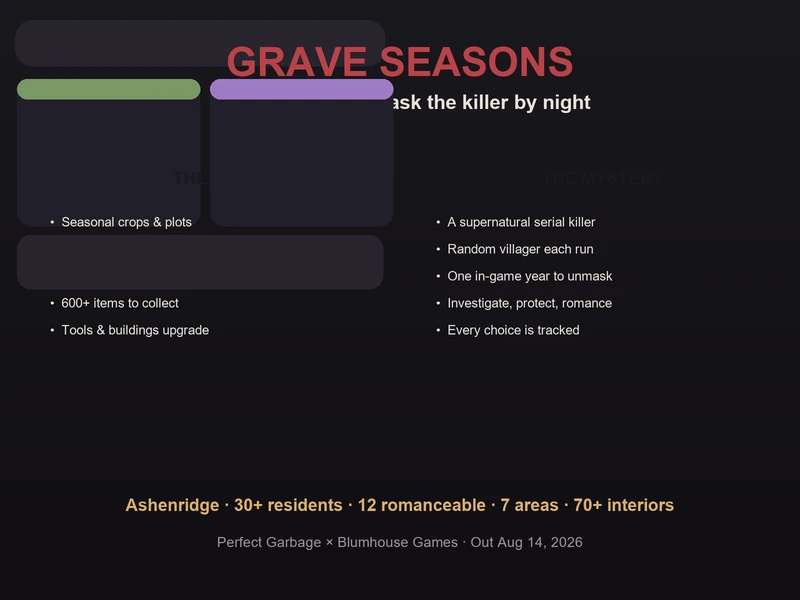
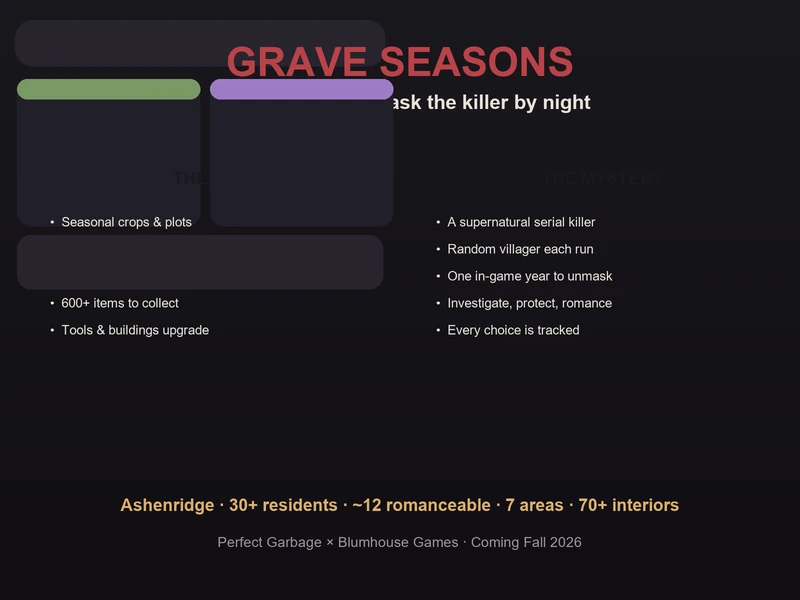
Revise Grave Seasons guide to pre-release preview (delayed to Fall 2026)

Changed region(s): [[0.1562, 0.81, 0.8438, 0.87], [0.2812, 0.9, 0.7188, 0.93]]

diff --git a/scripts/make_grave_seasons_images.py b/scripts/make_grave_seasons_images.py
@@ -143,9 +143,9 @@ def hero():
 
     # footer facts
     rrect(d, (34, 470, W - 34, H - 22), 14, fill=PANEL)
-    facts = "Ashenridge · 30+ residents · 12 romanceable · 7 areas · 70+ interiors"
+    facts = "Ashenridge · 30+ residents · ~12 romanceable · 7 areas · 70+ interiors"
     ctext(d, (W / 2, 505), facts, fit(facts, W - 90, 17, True), fill=GOLD)
-    ctext(d, (W / 2, 542), "Perfect Garbage × Blumhouse Games · Out Aug 14, 2026", fit("Perfect Garbage × Blumhouse Games · Out Aug 14, 2026", W - 90, 14), fill=MUTED)
+    ctext(d, (W / 2, 542), "Perfect Garbage × Blumhouse Games · Coming Fall 2026", fit("Perfect Garbage × Blumhouse Games · Coming Fall 2026", W - 90, 14), fill=MUTED)
     save(img, "grave-seasons-hero.webp")
 
 # ---------------------------------------------------------------- 2. Ashenridge areas
@@ -278,7 +278,7 @@ def killer():
 # ---------------------------------------------------------------- 5. Protect & romance
 def protect_romance():
     img, d = canvas()
-    header(d, "PROTECT THE VICTIMS · ROMANCE 12", "Two goals, one year, all your choices tracked")
+    header(d, "PROTECT THE VICTIMS · ROMANCE A DOZEN", "Two goals, one year, all your choices tracked")
 
     lx = 34
     lw = (W - 68 - 20) / 2
@@ -298,7 +298,7 @@ def protect_romance():
     rx = lx + lw + 20
     rrect(d, (rx, 96, rx + lw, 470), 14, fill=CARD)
     rrect(d, (rx, 96, rx + lw, 140), 14, fill=BLOOD)
-    ctext(d, (rx + lw / 2, 118), "ROMANCE 12 CANDIDATES", fit("ROMANCE 12 CANDIDATES", lw - 16, 16, True), fill=BG)
+    ctext(d, (rx + lw / 2, 118), "ROMANCE A DOZEN CANDIDATES", fit("ROMANCE A DOZEN CANDIDATES", lw - 16, 16, True), fill=BG)
     panel_lines(d, rx + 16, 160, [
         "Build trust through quests",
         "Learn their hidden sides",

diff --git a/hooks/main.py b/hooks/main.py
@@ -1093,7 +1093,7 @@ RELATED_GUIDES = {
 
     # ─── Grave Seasons ───
     "grave-seasons/": [
-        ("grave-seasons/beginners-guide/", "Beginner's Guide"),
+        ("grave-seasons/beginners-guide/", "Preview Guide"),
         ("village-in-the-shade/", "Village in the Shade Guides"),
         ("guides/best-farming-games-2026/", "Best Farming Games 2026"),
         ("tools/release-calendar/", "Upcoming Release Calendar"),

diff --git a/docs/grave-seasons/beginners-guide.md b/docs/grave-seasons/beginners-guide.md
@@ -1,16 +1,16 @@
 ---
-title: "Grave Seasons Beginner's Guide — Farm by Day, Unmask a Supernatural Serial Killer by Night"
-description: "Complete Grave Seasons beginner's guide. What the cozy-horror farming sim from Perfect Garbage and Blumhouse Games is, the escaped-convict story in Ashenridge, the one-year clock and how the randomly-assigned killer works, the farm-by-day investigate-by-night loop, seasonal crops and occult crafting, all seven areas of Ashenridge, breaking & entering and villager secrets, protecting the next victim, romance with 12 candidates (some of them killers), New Game+ replayability, a Grave Seasons vs Stardew Valley vs Village in the Shade data comparison, and a pro-tips FAQ."
+title: "Grave Seasons Preview Guide — Farm by Day, Unmask a Supernatural Serial Killer by Night"
+description: "Grave Seasons preview guide for the delayed cozy-horror farming sim from Perfect Garbage and Blumhouse Games (Fall 2026, delayed from August 14). What it is, the escaped-convict story in Ashenridge, the one-year clock and how the randomly-assigned killer works, the farm-by-day investigate-by-night loop, seasonal crops and occult crafting, all seven areas of Ashenridge, breaking & entering and villager secrets, protecting the next victim, romance with around a dozen candidates (some of them killers), New Game+ replayability, a Grave Seasons vs Stardew Valley vs Village in the Shade data comparison, and a pro-tips FAQ — based on the official trailer, the IGN China demo, and the PAX East / Summer Game Fest show builds."
 date: 2026-08-17
 ---
 
-# Grave Seasons Beginner's Guide — Farm by Day, Unmask a Killer by Night
+# Grave Seasons Preview Guide — Farm by Day, Unmask a Killer by Night
 
-> Game: Grave Seasons (*埋谷季* / *送葬季*) | Developer: Perfect Garbage | Publisher: Blumhouse Games | Released: August 14, 2026 | Platforms: PC (Steam), PlayStation 5, Xbox Series X|S, Nintendo Switch · Xbox Game Pass day one
+> Game: Grave Seasons (*埋谷季* / *送葬季*) | Developer: Perfect Garbage | Publisher: Blumhouse Games | Releasing: Fall 2026 — delayed from August 14, 2026 | Platforms: PC (Steam), PlayStation 5, Xbox Series X|S, Nintendo Switch · Xbox Game Pass day one
 
-I have followed **Grave Seasons** since the IGN China gameplay demo went up on Bilibili back in March, and I was at the store page the minute the **August 14, 2026** launch hit. It is the strangest thing to happen to the cozy-farming genre this year: a pixel-art Stardew-style farming sim — crops, fishing, mining, foraging, romance, festivals of small-town life — where **one of your neighbors is a supernatural serial killer**, and you have exactly one in-game year to figure out who.
+I have followed **Grave Seasons** since the IGN China 11-minute gameplay demo (*实机演示*) went up on Bilibili on March 30, and I went hands-on with the show build at PAX East before the delay news broke. It is the strangest thing to happen to the cozy-farming genre this year: a pixel-art Stardew-style farming sim — crops, fishing, mining, foraging, romance, festivals of small-town life — where **one of your neighbors is a supernatural serial killer**, and you have exactly one in-game year to figure out who.
 
-This guide is built from the launch build, the official trailer and the IGN China *实机演示* (11-minute gameplay demo) on Bilibili, plus the press walkthroughs that followed release. It covers what Grave Seasons actually is, how the killer system works, the farm-by-day / investigate-by-night loop, every area of Ashenridge, how to protect the next victim, the 12 romance candidates, and an honest verdict on whether the "cozy horror" pitch delivers.
+**One important note before you read on:** this is a **pre-release preview guide**, not a review of the finished game. Grave Seasons was originally scheduled for **August 14, 2026**, but on **June 5, 2026** developer Perfect Garbage announced the game had been delayed to an undated **Fall 2026** window — the same announcement cancelled the planned June 15 public demo. The game is not out yet, so everything below is built from what's actually playable or shown so far: the official trailer, the IGN China 11-minute gameplay demo on Bilibili, the **PAX East 2026 hands-on demo** (the first public build), and the **Summer Game Fest 2026 press preview**, cross-checked against the Steam store page and developer interviews. I'll flag which details are confirmed by the developer and which come from preview hands-ons.
 
 ![Grave Seasons hero — an idyllic pixel-art farm under a blood-red sky, farming by day while a dark mystery stalks Ashenridge by night](images/grave-seasons-hero.webp)
 
@@ -24,22 +24,23 @@ This guide is built from the launch build, the official trailer and the IGN Chin
 |:-----|:-------|
 | **Developer** | Perfect Garbage (co-founders Emmett Nahil & Son M) |
 | **Publisher** | Blumhouse Games |
-| **Release date** | August 14, 2026 — PC (Steam), PS5, Xbox Series X\|S, Nintendo Switch |
+| **Release window** | Fall 2026 — originally August 14, 2026, delayed June 5, 2026 (no exact date yet) |
+| **Platforms** | PC (Steam), PS5, Xbox Series X\|S, Nintendo Switch |
 | **Game Pass** | Included day one on Xbox Game Pass |
 | **Genre** | Isometric pixel-art farming / life sim · murder mystery · supernatural horror |
 | **Setting** | Ashenridge — a mountainside town; your farm is at the very top |
 | **Playtime core** | One in-game year per playthrough |
 | **Residents** | 30+ townsfolk, 70+ interior locations |
 | **Major areas** | 7 — Your Farm, The Mountainside, The Forest, Local District, Commercial District, Coast & Docks, The Mines |
-| **Romance** | 12 romanceable characters — some may be the killer |
+| **Romance** | Around a dozen romanceable characters (per preview reports) — some may be the killer |
 | **Items** | 600+ to collect, discover or craft |
 | **Killer** | Randomly assigned from a pool of candidates every playthrough |
-| **Mode** | Single-player (Windows PC) |
-| **Announced** | June 2024; release date revealed at the March 2026 Xbox Partner Preview |
+| **Mode** | Single-player |
+| **Announced** | First shown June 2024; August 14 date revealed at the March 2026 Xbox Partner Preview (later delayed) |
 
 **The pitch in one line:** Stardew Valley if the town had a serial killer and the townsfolk were secretly monsters. You farm, you fish, you befriend and romance your neighbors — and you do all of it while investigating who among them is killing people after dark.
 
-> **First-person verdict, up front:** the killer gimmick is not a skin over a normal farming game — it changes how you play *everything*, because every relationship you build and every choice you make can keep someone alive or get them killed. I'll get into the numbers and the honest trade-offs at the end.
+> **First-person take, up front:** from what's playable so far, the killer gimmick is not a skin over a normal farming game — it changes how you play *everything*, because every relationship you build and every choice you make can keep someone alive or get them killed. I'll get into the numbers and the honest trade-offs at the end.
 
 ---
 
@@ -156,18 +157,18 @@ Here's where Grave Seasons goes somewhere almost no farming sim goes: **you can 
 - **The killer has a type.** Learning the killer's kill styles and target preferences lets you predict who is next, which turns protection from luck into strategy.
 - **Some victims can't be saved.** Not every death is preventable, and the game is honest about that. Characters dying unlocks its own storylines.
 
-![Protecting victims and romance in Grave Seasons — craft occult wards to save the next target while building relationships with all 12 romanceable candidates](images/protect-and-romance.webp)
+![Protecting victims and romance in Grave Seasons — craft occult wards to save the next target while building relationships with around a dozen romanceable candidates](images/protect-and-romance.webp)
 
 The "both sides" design shows in the romance system too. You can **romance the killer without knowing it**, and uncovering a character's hidden side while they're a killer — or while they're a victim — is a core part of the storytelling. The game's monsters aren't all villains; they're people with their own struggles in both forms, and some of them can change their fate.
 
 ---
 
-## Romance: 12 Candidates, Some of Them Killers
+## Romance: Around a Dozen Candidates, Some of Them Killers
 
 The social layer of Grave Seasons is standard-issue for the genre, but the stakes are anything but standard:
 
-- **12 romanceable characters** across Ashenridge's 30+ residents.
-- **Romance the killer?** Some of the 12 can be the killer in a given playthrough — which means you can unknowingly build a romance with the person murdering your neighbors.
+- **Around a dozen romanceable characters** across Ashenridge's 30+ residents — preview hands-ons consistently describe "wooing" a dozen or so of the townsfolk, though the developer hasn't pinned down an exact final roster yet.
+- **Romance the killer?** Some of the candidates can be the killer in a given playthrough — which means you can unknowingly build a romance with the person murdering your neighbors.
 - **Romance the victim?** Conversely, getting close to a target can be what saves them.
 - **Dual identities.** Major characters have monster forms that reflect their inner struggles, and the game explores whether you can reach the person beneath the monster — in either role.
 
@@ -177,7 +178,7 @@ For relationship building, expect the familiar farming-sim loop of **quests, gif
 
 ## Replayability: New Game+ and the Random Killer
 
-The single strongest argument for Grave Seasons' price is its replay structure, because the core mystery is randomized:
+The single strongest argument for Grave Seasons' design is its replay structure, because the core mystery is randomized:
 
 - **The killer is different every run.** Each playthrough draws a different supernatural serial killer from the pool of candidates, with their own campaign, motives, kill styles and targets. The "who is it?" question literally has a different answer each time.
 - **Your work carries over.** Progress and decisions are tracked from your previous year into the next playthrough — the game remembers what you did, and the town reflects it.
@@ -195,13 +196,13 @@ Every cozy game gets compared to Stardew Valley, and every horror-flavored farm 
 |:----------|:--------------|:---------------|:---------------------|
 | **Developer** | Perfect Garbage | ConcernedApe | Nippon Ichi Software (Yomawari team) |
 | **Publisher** | Blumhouse Games | ConcernedApe | NIS (JP launch) / NIS America (West) |
-| **Release** | Aug 14, 2026 | Feb 2016 | Jul 30, 2026 (JP) / Fall 2026 (West) |
-| **Price** | Steam regional pricing · on Game Pass | $14.99 | ¥8,200 (PS5/Switch 2/PC), ¥7,200 (Switch) |
+| **Release** | Fall 2026 (delayed from Aug 14) | Feb 2016 | Jul 30, 2026 (JP) / Fall 2026 (West) |
+| **Price** | TBD · day one Game Pass | $14.99 | ¥8,200 (PS5/Switch 2/PC), ¥7,200 (Switch) |
 | **Core loop** | Farm by day, investigate a serial killer by night | Farm, mine, fish, befriend | Farm by day, explore village secrets at night |
 | **Time pressure** | One in-game year | None (relaxed) | Village rules & night dangers |
 | **Killer / mystery** | Random supernatural serial killer every run | None | Haunted village with 8 taboo rules |
 | **Residents** | 30+, 70+ interiors | ~30+ NPCs | A village full of secrets |
-| **Romance** | 12 candidates (some are the killer) | 12 candidates + marriage | Romance + village life |
+| **Romance** | ~a dozen (some are the killer) | 12 candidates + marriage | Romance + village life |
 | **Collectibles** | 600+ items | Many | 80+ crops/flowers, 1,500+ craftables |
 | **Map** | 7 areas of one town | Valley + Ginger Island | One mountain village |
 | **Replayability** | Killer randomizes each playthrough | Mods & completionism | Story-driven |
@@ -240,8 +241,8 @@ Every cozy game gets compared to Stardew Valley, and every horror-flavored farm 
 ### What is Grave Seasons?
 A pixel-art farming and life sim from **Perfect Garbage**, published by **Blumhouse Games**, where you play an escaped convict settling in the town of **Ashenridge**. You farm, fish, mine, forge relationships — and investigate which resident is a **supernatural serial killer**, with one in-game year to unmask them.
 
-### When was Grave Seasons released?
-**August 14, 2026**, on **PC (Steam), PlayStation 5, Xbox Series X|S and Nintendo Switch**. It's included day one on **Xbox Game Pass**.
+### When does Grave Seasons release?
+**Fall 2026** on **PC (Steam), PlayStation 5, Xbox Series X|S and Nintendo Switch** — the original **August 14, 2026** date was delayed on **June 5, 2026**, and no exact replacement date has been announced yet. It's confirmed for day one on **Xbox Game Pass**.
 
 ### How does the killer work in Grave Seasons?
 Each playthrough randomly assigns one resident the role of supernatural serial killer, chosen from a pool of candidates. Every killer has their own campaign, motives, kill styles and targets, so the mystery is different on every run.
@@ -250,7 +251,7 @@ Each playthrough randomly assigns one resident the role of supernatural serial k
 One **in-game year** per playthrough, with a 24-hour day/night cycle. The year's outcome — who lived, who died, what you uncovered — is tallied, and your work carries into the next playthrough.
 
 ### Can you romance the killer in Grave Seasons?
-Yes. There are **12 romanceable characters**, and some of them can be the killer in a given playthrough — so you can build a relationship with the killer without knowing who they are.
+Yes. There are **around a dozen romanceable characters** (per preview hands-ons, the final roster isn't officially confirmed), and some of them can be the killer in a given playthrough — so you can build a relationship with the killer without knowing who they are.
 
 ### How do I protect victims in Grave Seasons?
 Craft **occult ward items** in your shed, identify the killer's likely targets by learning their kill patterns, and build relationships with potential victims — your choices determine who lives and who dies.
@@ -258,9 +259,9 @@ Craft **occult ward items** in your shed, identify the killer's likely targets b
 ### How many areas and residents are there?
 **Seven major areas** (Your Farm, The Mountainside, The Forest, Local District, Commercial District, Coast & Docks, and The Mines), **30+ residents**, **70+ interior locations**, and **600+ items** to collect, discover or craft.
 
-### Is Grave Seasons worth it in 2026?
-If the premise — a full farming sim where you investigate a randomized supernatural murder mystery with real consequences — appeals to you, it's the most distinctive cozy-adjacent game of the year. The random-killer structure gives it strong replay value, and being on **Game Pass** makes it easy to try risk-free. If you want a purely relaxed, stakes-free farm sim, this is deliberately not that.
+### Is Grave Seasons worth looking forward to in 2026?
+If the premise — a full farming sim where you investigate a randomized supernatural murder mystery with real consequences — appeals to you, it's shaping up to be the most distinctive cozy-adjacent game of the year. The random-killer structure gives it strong replay value, and day one **Game Pass** will make it easy to try risk-free when it lands. If you want a purely relaxed, stakes-free farm sim, this is deliberately not that.
 
 ---
 
-*Guide data gathered from the launch build (August 14, 2026), the official trailer and IGN China's 11-minute gameplay demo on Bilibili (实机演示, March 2026), the Steam store page, and press coverage including IGN, GosuGamers and a Polygon developer interview translated by 17173. Prices and details reflect launch week and may change with patches — always check the Steam page before buying.*
+*This is a pre-release preview guide. Source material: the official announcement trailer and the March 30, 2026 IGN China 11-minute gameplay demo (实机演示) on Bilibili, the PAX East 2026 hands-on demo (the first public playable build), Summer Game Fest 2026 press preview coverage, the Steam store page, and developer interviews — including a Polygon interview translated by 17173 on May 26, 2026. Grave Seasons was delayed from August 14 to an undated Fall 2026 window on June 5, 2026; details reflect the build as shown so far and may change before launch. The game is not yet priced on Steam (only wishlistable) — always check the Steam page before release.*

diff --git a/docs/grave-seasons/index.md b/docs/grave-seasons/index.md
@@ -1,12 +1,12 @@
 ---
 title: "Grave Seasons Guides"
-description: "Grave Seasons guides — the cozy-horror farming sim from Perfect Garbage and Blumhouse Games. Beginner's guide covering the escaped-convict story in Ashenridge, the one-year clock and randomly-assigned supernatural killer, the farm-by-day investigate-by-night loop, seasonal crops and occult crafting, all seven areas, protecting victims, romance with 12 candidates, and replayability."
+description: "Grave Seasons preview guides — the delayed cozy-horror farming sim from Perfect Garbage and Blumhouse Games (Fall 2026, delayed from August 14). Preview guide covering the escaped-convict story in Ashenridge, the one-year clock and randomly-assigned supernatural killer, the farm-by-day investigate-by-night loop, seasonal crops and occult crafting, all seven areas, protecting victims, romance with around a dozen candidates, and replayability."
 date: 2026-08-17
 ---
 
 # ⚰ Grave Seasons Guides
 
-> Perfect Garbage × Blumhouse Games | Released August 14, 2026 | PC, PS5, Xbox Series X|S, Nintendo Switch · Xbox Game Pass day one
+> Perfect Garbage × Blumhouse Games | Coming Fall 2026 — delayed from August 14 | PC, PS5, Xbox Series X|S, Nintendo Switch · Xbox Game Pass day one
 
 **Grave Seasons** is the strangest cozy-adjacent game of 2026: a full pixel-art farming and life sim set in the small mountainside town of **Ashenridge**, where you play an escaped convict rebuilding a farm at the top of the mountain — and where one of your 30+ neighbors is secretly a **supernatural serial killer**. You have one in-game year to farm, investigate, protect victims and unmask the killer, whose identity is randomly reassigned on every playthrough.
 
@@ -14,7 +14,7 @@ date: 2026-08-17
 
 | Guide | Description |
 |:------|:------------|
-| [⚰ Beginner's Guide](beginners-guide) | Everything for your first year in Ashenridge — what Grave Seasons is, the escaped-convict story, the one-year clock and how the random-killer system works, the farm-by-day / investigate-by-night loop, seasonal crops and occult crafting, all seven areas of Ashenridge, breaking & entering and villager secrets, protecting the next victim, romance with 12 candidates (some of them killers), New Game+ replayability, a Grave Seasons vs Stardew Valley vs Village in the Shade data comparison, and a pro-tips FAQ |
+| [🕵 Preview Guide](beginners-guide) | A pre-release look at everything shown so far — what Grave Seasons is, the escaped-convict story, the one-year clock and how the random-killer system works, the farm-by-day / investigate-by-night loop, seasonal crops and occult crafting, all seven areas of Ashenridge, breaking & entering and villager secrets, protecting the next victim, romance with around a dozen candidates (some of them killers), New Game+ replayability, a Grave Seasons vs Stardew Valley vs Village in the Shade data comparison, and a pro-tips FAQ |
 
 ## Quick Facts
 
@@ -22,22 +22,22 @@ date: 2026-08-17
 |:-----|:-------|
 | Developer | Perfect Garbage (Emmett Nahil & Son M) |
 | Publisher | Blumhouse Games |
-| Release | August 14, 2026 (Steam, PS5, Xbox Series X\|S, Nintendo Switch) |
+| Release | Fall 2026 — delayed from August 14, 2026 (no exact date yet) |
 | Game Pass | Included day one |
 | Genre | Isometric pixel-art farming / life sim · murder mystery · supernatural horror |
 | Setting | Ashenridge (灰岭镇) — your farm sits at the top of the mountain |
 | Playtime core | One in-game year per playthrough |
 | Areas | 7 — Your Farm, Mountainside, Forest, Local & Commercial Districts, Coast & Docks, Mines |
 | Residents | 30+, with 70+ interior locations |
-| Romance | 12 candidates — some may be the killer |
+| Romance | ~a dozen candidates — some may be the killer |
 | Items | 600+ to collect, discover or craft |
 | Killer | Randomly assigned from a candidate pool every playthrough |
 | Mode | Single-player |
 
 ## The Hook
 
-Farming sims usually promise peace: a quiet valley, a watering can, neighbors who adore you. **Grave Seasons promises the opposite — and means it.** The cozy loop is all here — seasonal crops, fishing, mining, foraging, kitchen and shed crafting, 12 romanceable neighbors, a town that changes with the seasons. But the town has a body count, the residents all have hidden supernatural sides, and the person you're buying seeds from might be the one killing people after dark. Every choice is autosaved and tracked, people live or die on your decisions, and the identity of the killer is redrawn from a fresh candidate pool on every single run. It's Stardew Valley with a murder board.
+Farming sims usually promise peace: a quiet valley, a watering can, neighbors who adore you. **Grave Seasons promises the opposite — and means it.** The cozy loop is all here — seasonal crops, fishing, mining, foraging, kitchen and shed crafting, around a dozen romanceable neighbors, a town that changes with the seasons. But the town has a body count, the residents all have hidden supernatural sides, and the person you're buying seeds from might be the one killing people after dark. Every choice is autosaved and tracked, people live or die on your decisions, and the identity of the killer is redrawn from a fresh candidate pool on every single run. It's Stardew Valley with a murder board.
 
 ---
 
-*Guide data gathered from the launch build, the official trailer and IGN China's gameplay demo on Bilibili, the Steam store page, and launch-week press coverage. Details reflect the August 2026 launch and may change with patches — always check the Steam page before buying.*
+*Pre-release preview. Sources: the official trailer, the IGN China 11-minute gameplay demo on Bilibili (March 30, 2026), the PAX East 2026 hands-on demo, Summer Game Fest 2026 press coverage, the Steam store page, and developer interviews (including a Polygon interview translated by 17173). Grave Seasons was delayed from August 14 to an undated Fall 2026 window on June 5, 2026; details reflect the build as shown so far and may change before release.*

diff --git a/docs/index.md b/docs/index.md
@@ -264,11 +264,11 @@ date: 2026-06-27
 <div class="game-hero-card game-card-graveseasons" data-href="grave-seasons/" onclick="gameCardClick(event, 'grave-seasons/')">
 <div class="game-hero-card-inner">
 <div class="game-card-title"><a href="grave-seasons/" class="game-card-title-link">⚰ Grave Seasons</a></div>
-<div class="game-card-sub">⚰ Cozy Horror · New Launch</div>
-<p>Perfect Garbage × Blumhouse Games' farming sim where a supernatural serial killer hides among your 30+ neighbors. Farm by day, unmask the killer by night — one in-game year to solve it.</p>
+<div class="game-card-sub">⚰ Cozy Horror · Coming Fall 2026</div>
+<p>Perfect Garbage × Blumhouse Games' farming sim where a supernatural serial killer hides among your 30+ neighbors. Farm by day, unmask the killer by night — one in-game year to solve it. Delayed from August 14 to Fall 2026.</p>
 <div class="game-card-links">
   <a href="grave-seasons/" class="game-card-link">📖 Full Guide</a>
-  <a href="grave-seasons/beginners-guide/" class="game-card-link">⚰ Beginner's Guide</a>
+  <a href="grave-seasons/beginners-guide/" class="game-card-link">🕵 Preview Guide</a>
 </div>
 </div>
 </div>

diff --git a/docs/news/index.md b/docs/news/index.md
@@ -8,7 +8,7 @@ date: 2026-06-27
 
 ## 2026-08-17
 
-- ⚰ New guide: **Grave Seasons Beginner's Guide** — Perfect Garbage × Blumhouse Games' cozy-horror farming sim where a supernatural serial killer hides among your neighbors: the escaped-convict story in Ashenridge, the one-year clock and random-killer system, the farm-by-day / investigate-by-night loop, seasonal crops &amp; occult crafting, all seven areas, protecting victims, and romance with 12 candidates (some of them killers) (5 WebP images)
+- ⚰ New preview: **Grave Seasons Preview Guide** — Perfect Garbage × Blumhouse Games' cozy-horror farming sim (delayed from August 14 to Fall 2026) where a supernatural serial killer hides among your neighbors: the escaped-convict story in Ashenridge, the one-year clock and random-killer system, the farm-by-day / investigate-by-night loop, seasonal crops &amp; occult crafting, all seven areas, protecting victims, and romance with around a dozen candidates (some of them killers), based on the official trailer, the IGN China demo and the PAX East / Summer Game Fest show builds (5 WebP images)
 
 ## 2026-08-12
 

diff --git a/docs/tools/release-calendar/index.md b/docs/tools/release-calendar/index.md
@@ -100,8 +100,8 @@ $(document).ready(function() {
 </tr>
 <tr>
     <td><strong>Grave Seasons</strong></td>
-    <td>Aug 14, 2026</td>
-    <td><span class="tag-released">Released</span></td>
+    <td>Fall 2026 (delayed from Aug 14)</td>
+    <td><span class="tag-upcoming">Fall 2026</span></td>
     <td>PC</td>
     <td>Farming / Horror</td>
     <td>Steam</td>
